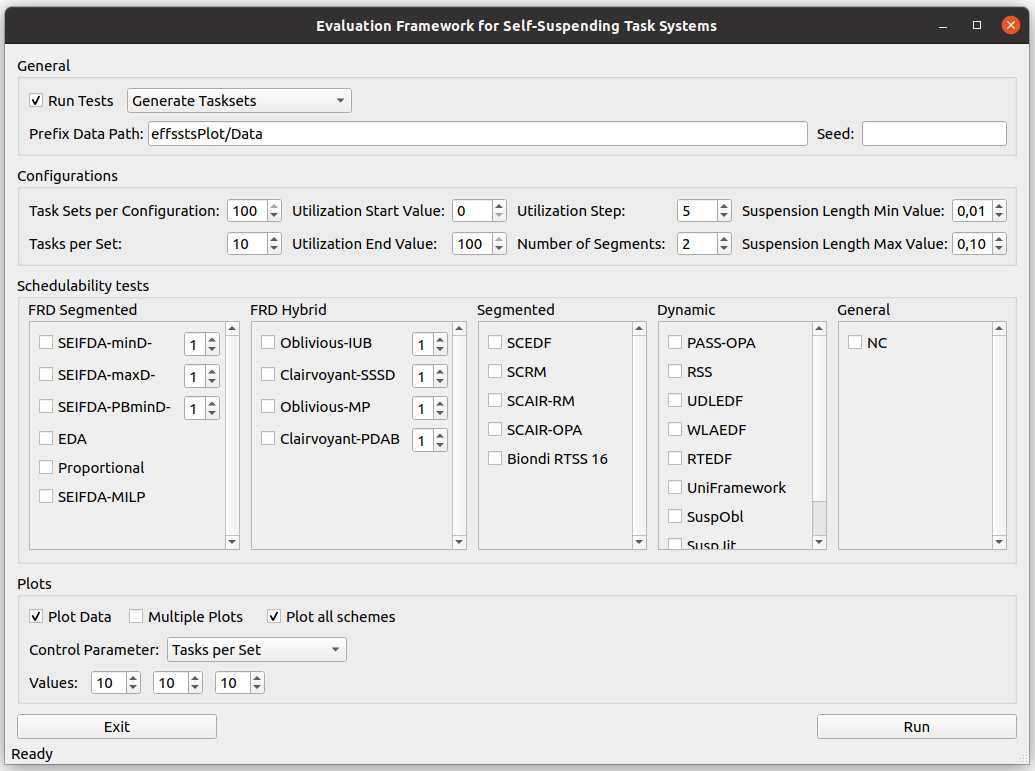
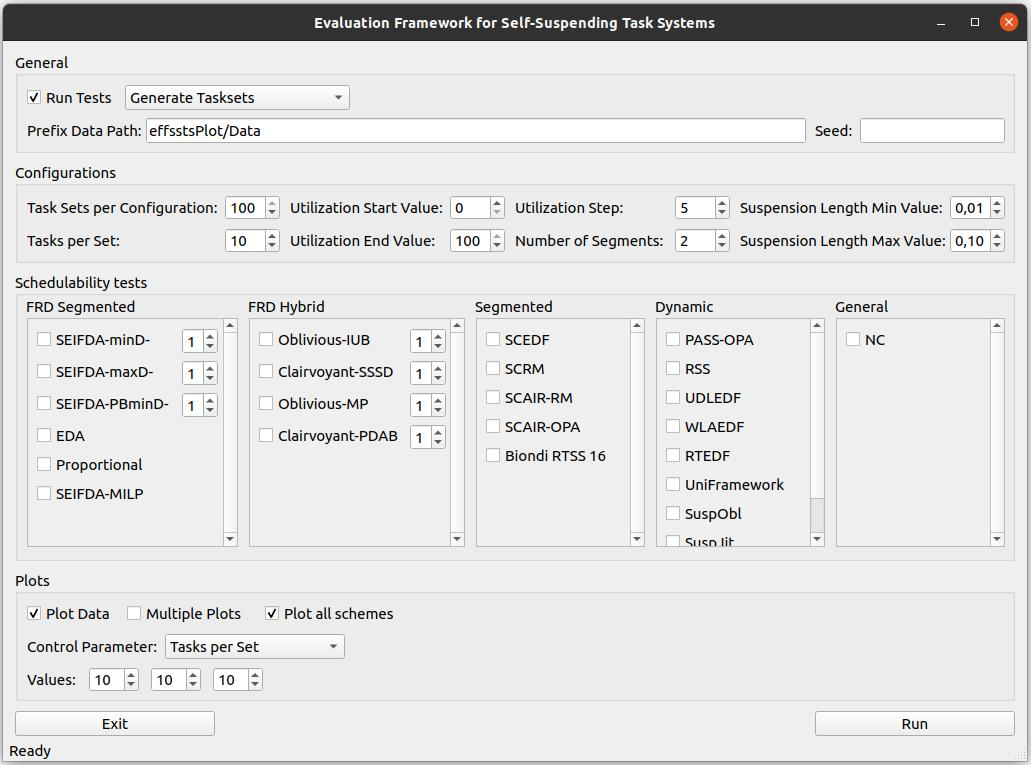
changed picture

diff --git a/README.md b/README.md
@@ -24,7 +24,7 @@ The framework already includes schedulability tests for multiple algorithms:
 * PASS: Wen-Hung Huang, Jian-Jia Chen, Husheng Zhou, and Cong Liu. PASS: Priority assignment of real-time tasks with dynamic suspending behavior under fixed-priority scheduling. In DAC 2015.
 
 # Framework Usage
-![GUI of the framework](https://github.com/tu-dortmund-ls12-rt/SSSEvaluation/tree/schedulability/framework_gui-2.jpg)
+![GUI of the framework](https://github.com/tu-dortmund-ls12-rt/SSSEvaluation/blob/schedulability/framework_gui-2.jpg)
 
 # How to integrate your algorithms?
 
